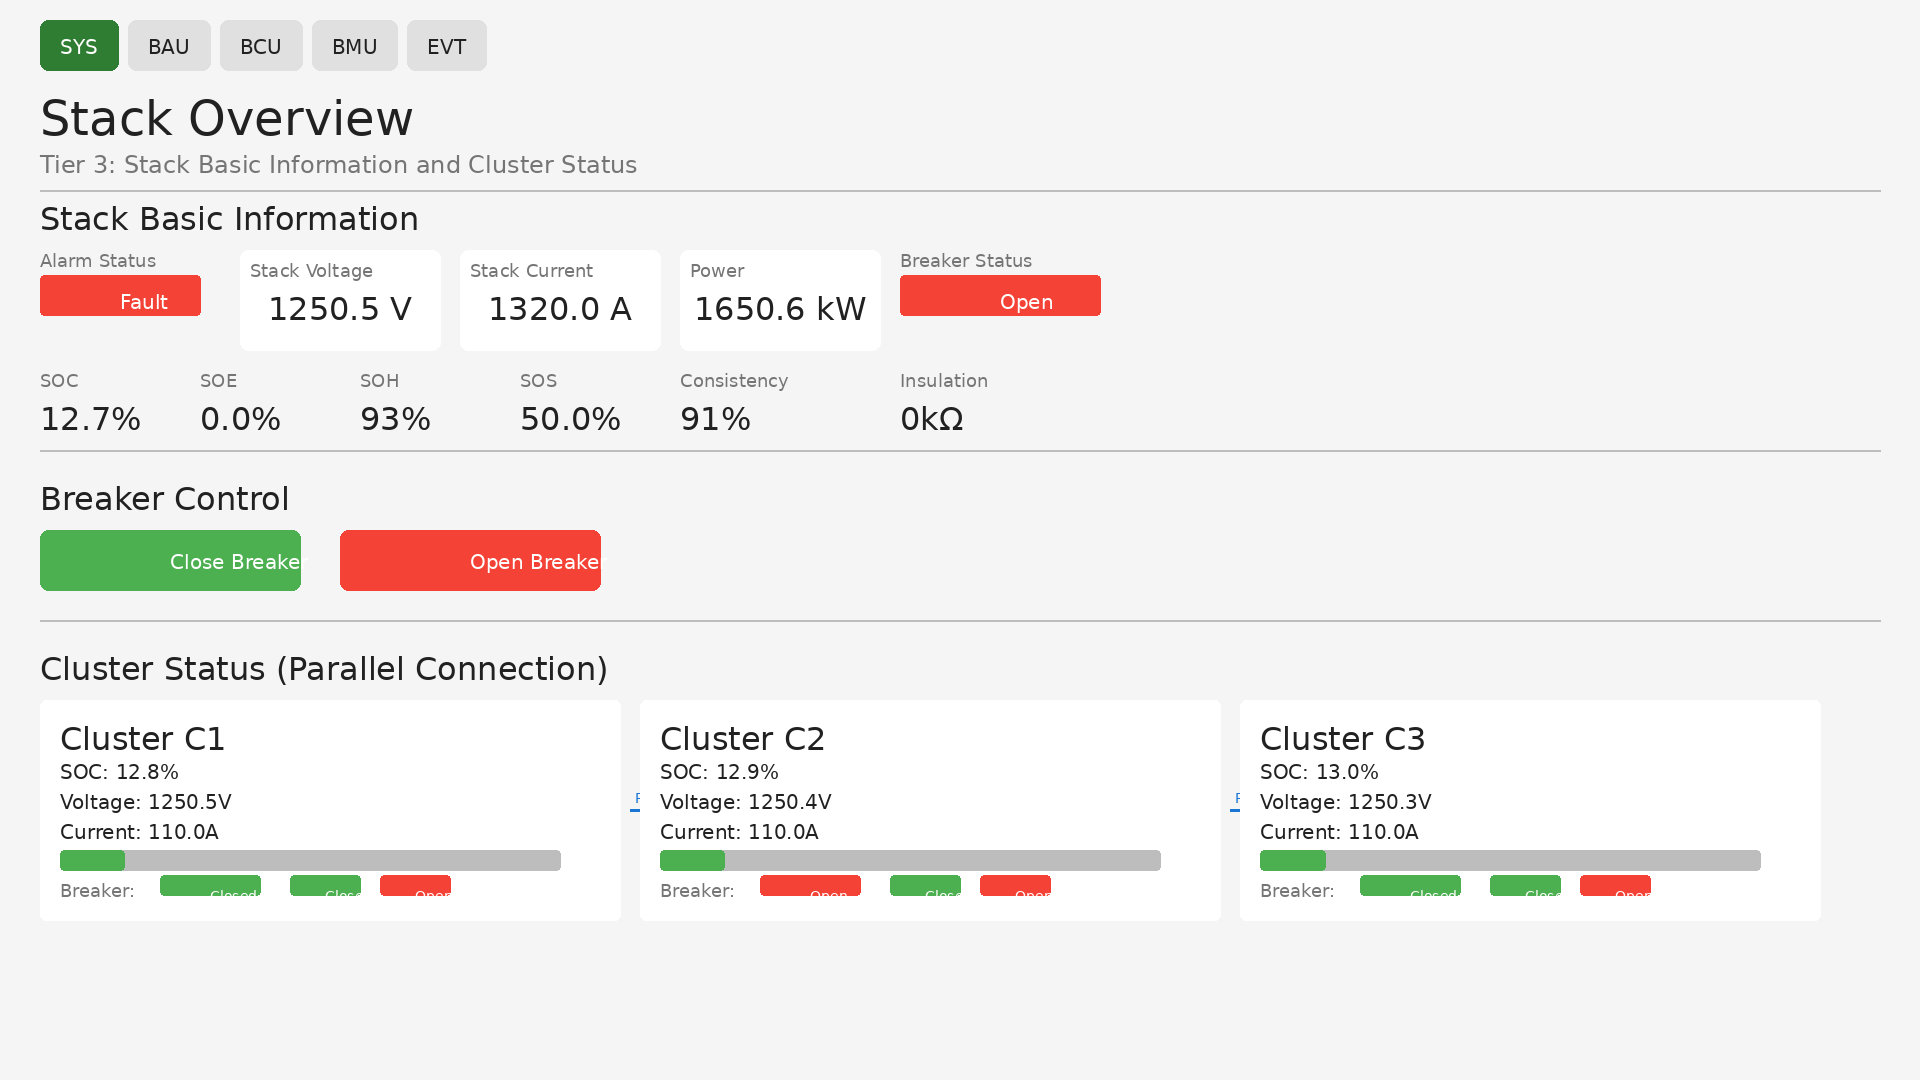
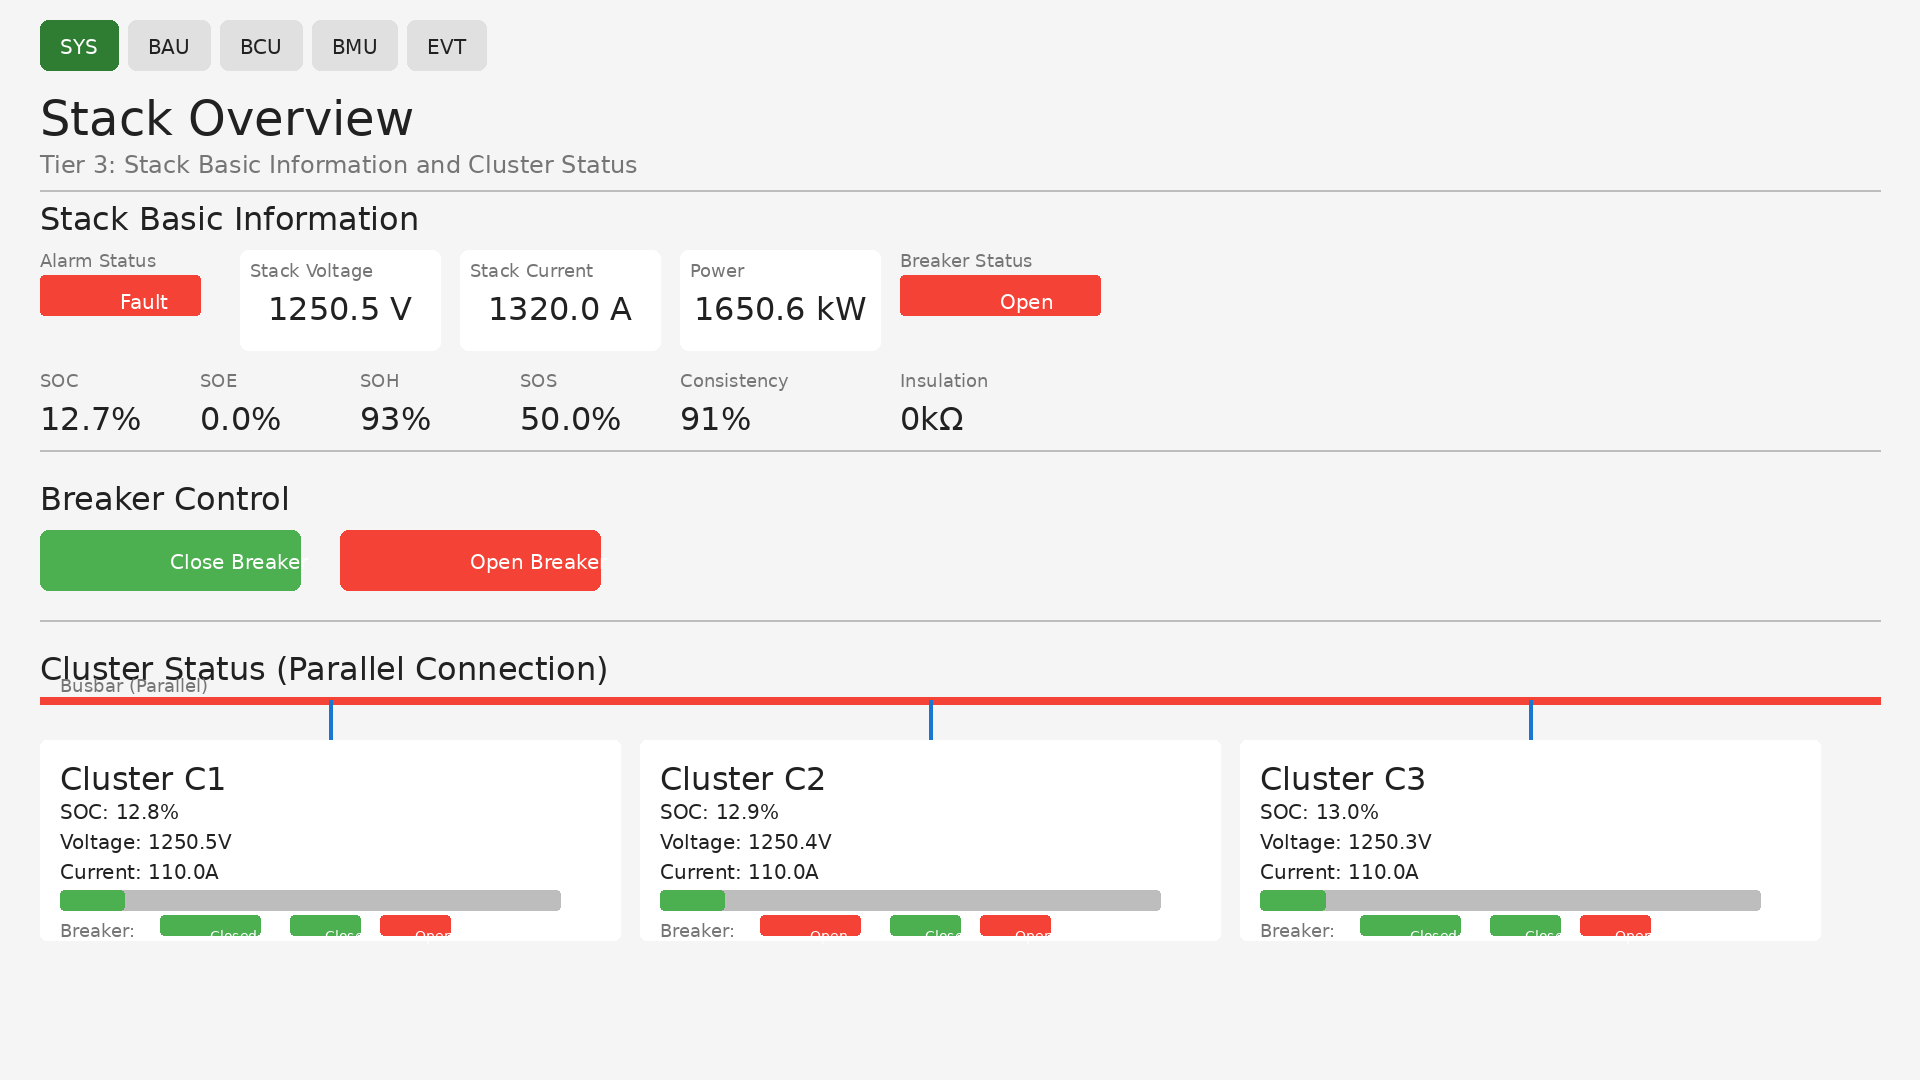
Enhance: Add busbar to Tier 3 SYS page topology
- Added busbar (thick horizontal line) at top of cluster section
- Each cluster connects to busbar via vertical connection line
- Makes parallel connection relationship clearer and easier to understand
- Matches bms1.jpg reference design style

Changed region(s): [[0.0312, 0.6111, 0.9688, 0.8861]]

diff --git a/designs/create_tier3_designs.py b/designs/create_tier3_designs.py
@@ -202,14 +202,23 @@ def tier3_sys():
     draw_divider(draw, y)
     y += 30
     
-    # Cluster status - Parallel connection (like bms1.jpg)
+    # Cluster status - Parallel connection with busbar (like bms1.jpg)
     draw.text((40, y), "Cluster Status (Parallel Connection)", font=fonts["heading"], fill=COLORS["text"])
     y += 50
+    
+    # Draw busbar (thick horizontal line at top)
+    busbar_y = y
+    busbar_start_x = 40
+    busbar_end_x = WIDTH - 40
+    draw.line((busbar_start_x, busbar_y, busbar_end_x, busbar_y), fill=COLORS["chip_error"], width=8)
+    draw.text((busbar_start_x + 20, busbar_y - 25), "Busbar (Parallel)", font=fonts["small"], fill=COLORS["muted"])
+    
+    y += 40  # Space below busbar
     
     # Display clusters in parallel (horizontal layout like bms1.jpg)
     cluster_count = 3
     cluster_width = 580
-    cluster_height = 220
+    cluster_height = 200
     start_x = 40
     cluster_y = y
     
@@ -218,11 +227,9 @@ def tier3_sys():
         if x + cluster_width > WIDTH - 40:
             break
         
-        # Parallel connection indicator (except first cluster)
-        if idx > 0:
-            # Draw parallel connection line
-            draw.line((x - 10, cluster_y + cluster_height // 2, x, cluster_y + cluster_height // 2), fill=COLORS["accent"], width=3)
-            draw.text((x - 5, cluster_y + cluster_height // 2 - 20), "Parallel", font=fonts["tiny"], fill=COLORS["accent"])
+        # Connection line from busbar to cluster
+        connection_x = x + cluster_width // 2
+        draw.line((connection_x, busbar_y, connection_x, cluster_y), fill=COLORS["accent"], width=4)
         
         # Cluster card
         draw.rounded_rectangle((x, cluster_y, x + cluster_width, cluster_y + cluster_height), radius=6, fill=COLORS["card_bg"])
@@ -351,28 +358,38 @@ def generate_svg_tier3_sys():
   <!-- Cluster Status (Parallel) -->
   <text x="40" y="680" fill="{COLORS['text']}" font-size="32" font-family="Arial" font-weight="bold">Cluster Status (Parallel Connection)</text>
   
+  <!-- Busbar -->
+  <line x1="40" y1="700" x2="1880" y2="700" stroke="{COLORS['chip_error']}" stroke-width="8"/>
+  <text x="60" y="695" fill="{COLORS['muted']}" font-size="18" font-family="Arial">Busbar (Parallel)</text>
+  
   <!-- Clusters (simplified) -->
   <g id="clusters">
-    <rect x="40" y="720" width="580" height="220" rx="6" fill="{COLORS['card_bg']}"/>
-    <text x="60" y="750" fill="{COLORS['text']}" font-size="32" font-family="Arial" font-weight="bold">Cluster C1</text>
-    <text x="60" y="790" fill="{COLORS['text']}" font-size="20" font-family="Arial">SOC: 12.8%</text>
-    <text x="60" y="820" fill="{COLORS['text']}" font-size="20" font-family="Arial">Voltage: 1250.5V</text>
-    <text x="60" y="850" fill="{COLORS['text']}" font-size="20" font-family="Arial">Current: 110.0A</text>
-    <rect x="60" y="880" width="500" height="20" rx="4" fill="{COLORS['line']}"/>
-    <rect x="60" y="880" width="64" height="20" rx="4" fill="{COLORS['chip_ok']}"/>
-    <text x="60" y="910" fill="{COLORS['muted']}" font-size="18" font-family="Arial">Breaker:</text>
-    <rect x="160" y="905" width="100" height="20" rx="4" fill="{COLORS['breaker_closed']}"/>
-    <text x="210" y="918" text-anchor="middle" fill="#FFFFFF" font-size="14" font-family="Arial">Closed</text>
-    <rect x="290" y="905" width="70" height="20" rx="4" fill="{COLORS['breaker_closed']}"/>
-    <text x="325" y="918" text-anchor="middle" fill="#FFFFFF" font-size="14" font-family="Arial">Close</text>
-    <rect x="380" y="905" width="70" height="20" rx="4" fill="{COLORS['breaker_open']}"/>
-    <text x="415" y="918" text-anchor="middle" fill="#FFFFFF" font-size="14" font-family="Arial">Open</text>
+    <!-- Connection line from busbar to cluster -->
+    <line x1="330" y1="700" x2="330" y2="750" stroke="{COLORS['accent']}" stroke-width="4"/>
     
-    <line x1="630" y1="830" x2="640" y2="830" stroke="{COLORS['accent']}" stroke-width="3"/>
-    <text x="645" y="835" fill="{COLORS['accent']}" font-size="14" font-family="Arial">Parallel</text>
+    <rect x="40" y="750" width="580" height="200" rx="6" fill="{COLORS['card_bg']}"/>
+    <text x="60" y="780" fill="{COLORS['text']}" font-size="32" font-family="Arial" font-weight="bold">Cluster C1</text>
+    <text x="60" y="820" fill="{COLORS['text']}" font-size="20" font-family="Arial">SOC: 12.8%</text>
+    <text x="60" y="850" fill="{COLORS['text']}" font-size="20" font-family="Arial">Voltage: 1250.5V</text>
+    <text x="60" y="880" fill="{COLORS['text']}" font-size="20" font-family="Arial">Current: 110.0A</text>
+    <rect x="60" y="910" width="500" height="20" rx="4" fill="{COLORS['line']}"/>
+    <rect x="60" y="910" width="64" height="20" rx="4" fill="{COLORS['chip_ok']}"/>
+    <text x="60" y="940" fill="{COLORS['muted']}" font-size="18" font-family="Arial">Breaker:</text>
+    <rect x="160" y="935" width="100" height="20" rx="4" fill="{COLORS['breaker_closed']}"/>
+    <text x="210" y="948" text-anchor="middle" fill="#FFFFFF" font-size="14" font-family="Arial">Closed</text>
+    <rect x="290" y="935" width="70" height="20" rx="4" fill="{COLORS['breaker_closed']}"/>
+    <text x="325" y="948" text-anchor="middle" fill="#FFFFFF" font-size="14" font-family="Arial">Close</text>
+    <rect x="380" y="935" width="70" height="20" rx="4" fill="{COLORS['breaker_open']}"/>
+    <text x="415" y="948" text-anchor="middle" fill="#FFFFFF" font-size="14" font-family="Arial">Open</text>
     
-    <rect x="640" y="720" width="580" height="220" rx="6" fill="{COLORS['card_bg']}"/>
-    <text x="660" y="750" fill="{COLORS['text']}" font-size="32" font-family="Arial" font-weight="bold">Cluster C2</text>
+    <!-- Connection line from busbar to cluster 2 -->
+    <line x1="930" y1="700" x2="930" y2="750" stroke="{COLORS['accent']}" stroke-width="4"/>
+    
+    <rect x="640" y="750" width="580" height="200" rx="6" fill="{COLORS['card_bg']}"/>
+    <text x="660" y="780" fill="{COLORS['text']}" font-size="32" font-family="Arial" font-weight="bold">Cluster C2</text>
+    <text x="660" y="820" fill="{COLORS['text']}" font-size="20" font-family="Arial">SOC: 12.9%</text>
+    <text x="660" y="850" fill="{COLORS['text']}" font-size="20" font-family="Arial">Voltage: 1250.4V</text>
+    <text x="660" y="880" fill="{COLORS['text']}" font-size="20" font-family="Arial">Current: 110.0A</text>
   </g>
 </svg>'''
     
